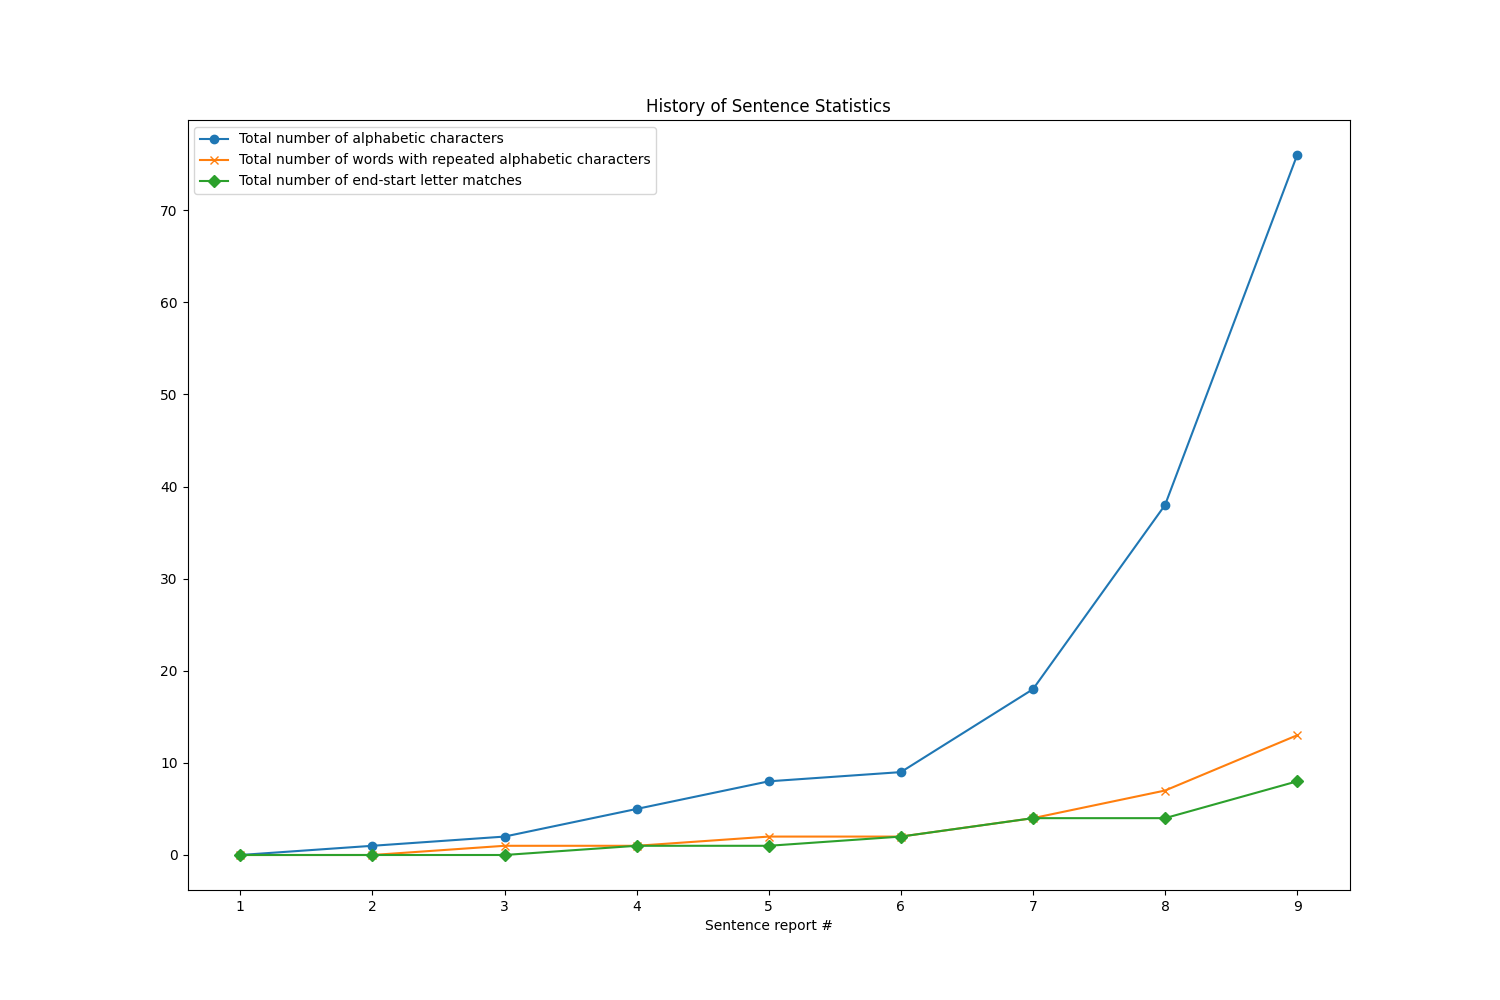
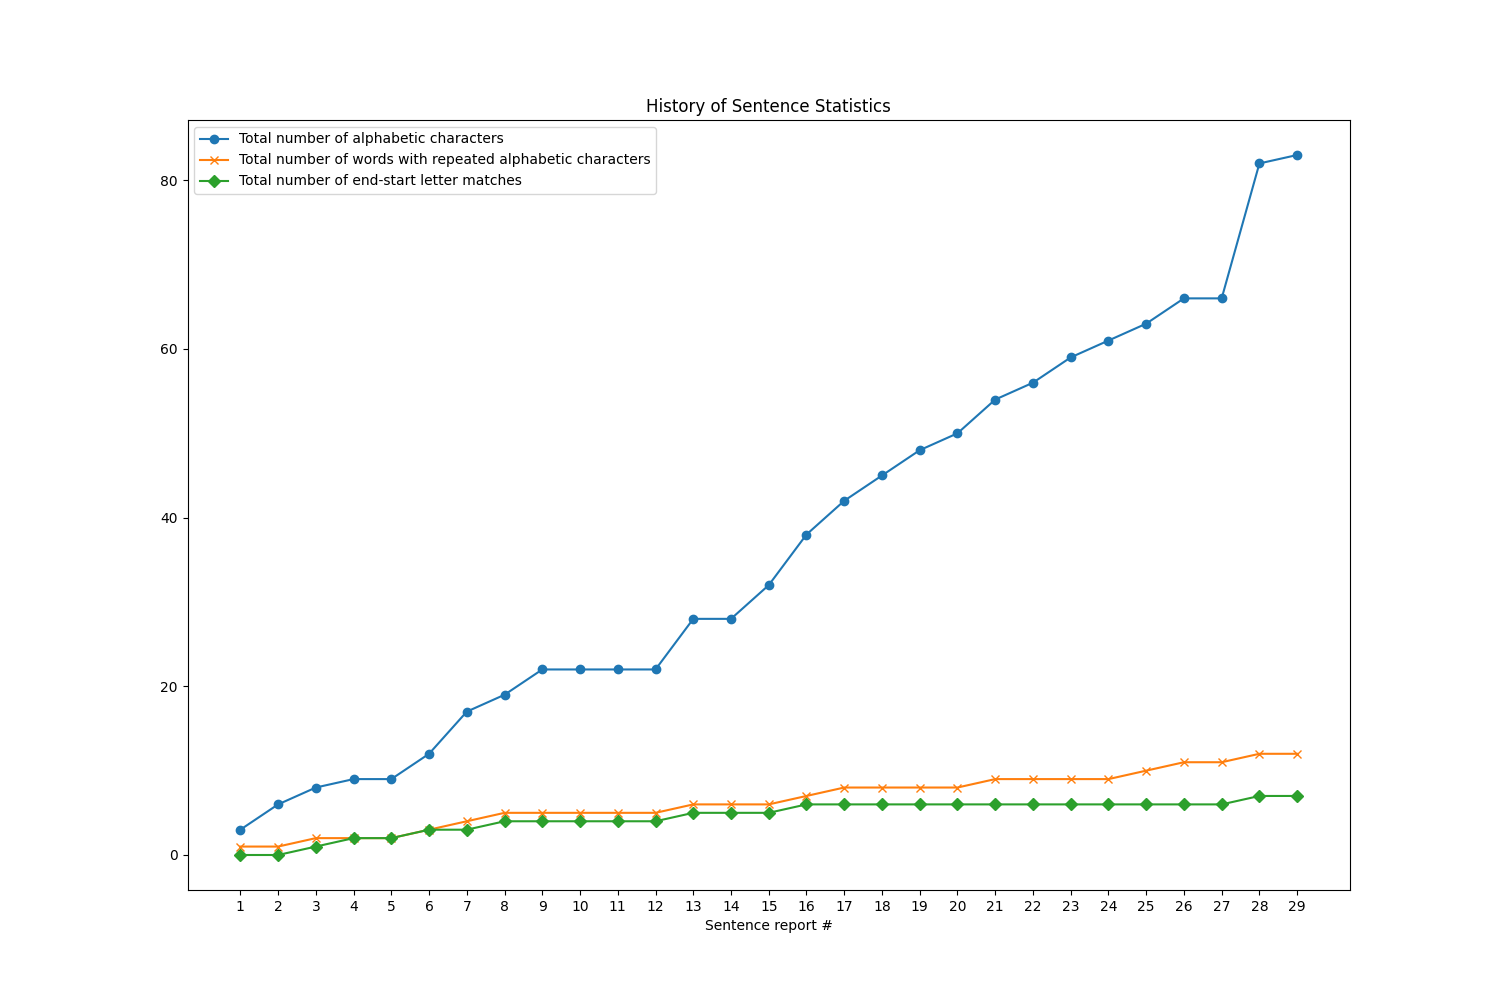
finishing code demo

diff --git a/sentenceReportGUI.py b/sentenceReportGUI.py
@@ -7,8 +7,6 @@ import matplotlib.pyplot as plt
 import numpy as np
 import math
 
-import matplotlib.ticker as ticker
-
 # Need to import this to use plt.plot because of UserWarning: Matplotlib is currently using agg, which is a non-GUI backend, so cannot show the figure.
 # but there issue importing this on lab machine so cannot display graph directly in GUI
 # Gettubg this error ImportError: cannot import name 'ImageTk' from 'PIL'
@@ -17,7 +15,7 @@ import matplotlib.ticker as ticker
 # from matplotlib.figure import Figure 
 # from matplotlib.backends.backend_tkagg import (FigureCanvasTkAgg, NavigationToolbar2Tk) 
   
-
+# global vars for the sentence report history 
 totalSentenceCount = 0
 sentenceLengthHistory = []
 alphaCountHistory = []
@@ -71,7 +69,7 @@ def sentence_report():
                     if isEndStart == True:
                         endStartCount += 1
 
-    
+    # adding stat values to history
     alphaCountHistory.append(alphaCount)
     repeatCountHistory.append(repeatCount)
     endStartCountHistory.append(endStartCount)
@@ -124,26 +122,19 @@ def generate_graph():
     global repeatCountHistory
     global endStartCountHistory
 
-    #xValue = range(1, totalSentenceCount)
+    # gets the horizontal values for the graph (1 to total number of report)
     xValue = np.arange(1, totalSentenceCount+1)
 
-    print(str(totalSentenceCount))
-    print(xValue)
-    print(str(alphaCountHistory))
-
-
-
-    # fig, ax = plt.subplots()
-    # for axis in [ax.xaxis, ax.yaxis]:
-    #     axis.set_major_locator(ticker.MaxNLocator(integer=True))
-
-
+    # do nothing when there is no history yet, don't create a graph
+    if totalSentenceCount == 0:
+        return;
 
     # 1500 x 1000 pixels in size
     plt.figure(figsize=(15, 10))
 
     plt.title("History of Sentence Statistics")
     plt.xlabel("Sentence report #")
+    # setting different markers for the points on the graph
     plt.plot(xValue, alphaCountHistory, marker='o', label = "Total number of alphabetic characters")
     plt.plot(xValue, repeatCountHistory, marker='x', label = "Total number of words with repeated alphabetic characters")
     plt.plot(xValue, endStartCountHistory, marker='D', label = "Total number of end-start letter matches")
@@ -151,19 +142,11 @@ def generate_graph():
     # default will go the best position to avoid lines, can also specifiy by cords or position
     plt.legend()
 
-    # sets the x labels of the plot as integers
+    # ensures that there an a horizontal ticker for every sentence report
     new_list = range(math.floor(min(xValue)), math.ceil(max(xValue))+1)
     plt.xticks(new_list)
 
-    #plt.ylim(ymin=0.0)
-    #plt.locator_params(axis='y', nbins=10) 
-    
-
-    #plt.gca().yaxis.set_major_locator(ticker.MultipleLocator(2))
-    #plt.locator_params(axis='y', nbins=10)
-
-
-    #this works by saving as image
+    #this works by saving as image, had to do this instead of directly in GUI becuase of library issues
     plt.savefig("SentenceReportStatisticsHistory.png")
 
 
@@ -209,7 +192,7 @@ clear_button = tk.Button(buttonFrame, text="Clear Text", bg="#69b2bf", command=c
 clear_button.grid(sticky="w", row=0, column=1)
 
 #creating the button to clear the text in the entry widget
-graph_button = tk.Button(buttonFrame, text="Generate Graph", bg="#f542ec", command=generate_graph)
+graph_button = tk.Button(buttonFrame, text="Download Sentence Report History Graph", bg="#f542ec", command=generate_graph)
 graph_button.grid(sticky="w", row=0, column=2, padx=10)
 
 
